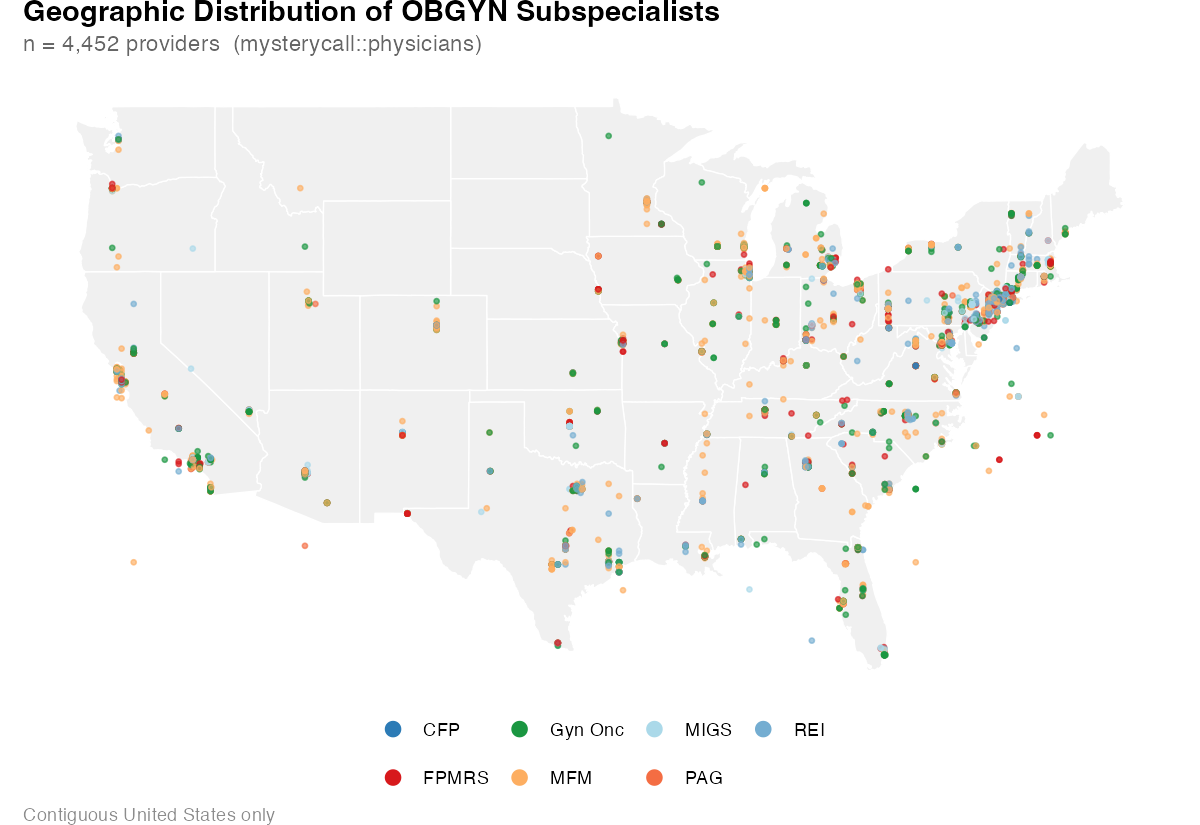
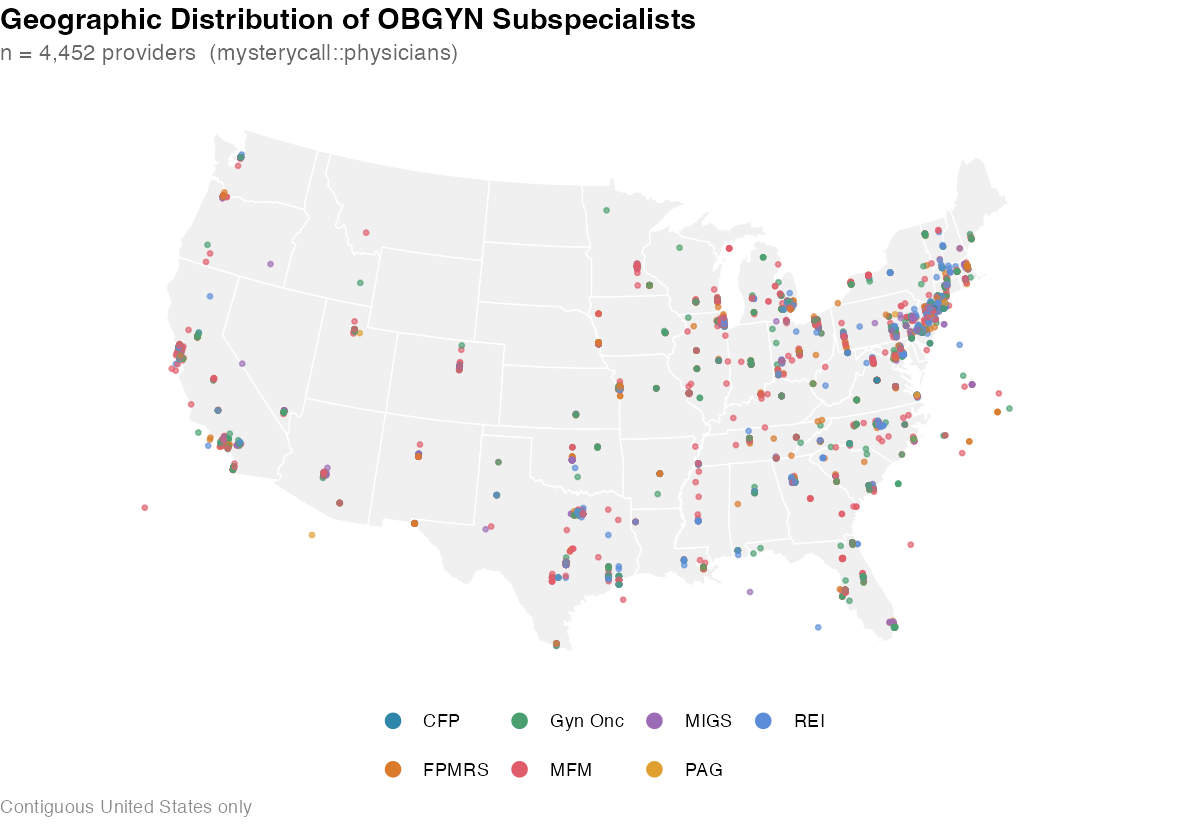
Deploying to gh-pages from @ mufflyt/mysterycall@4e5c54644243d44e0392306c7527d0b2fae7d879 🚀

diff --git a/reference/mysterycall_progress_summary.html b/reference/mysterycall_progress_summary.html
@@ -99,16 +99,16 @@
     <h2 id="ref-examples">Examples<a class="anchor" aria-label="anchor" href="#ref-examples"></a></h2>
     <div class="sourceCode"><pre class="sourceCode r"><code><span class="r-in"><span><span class="va">tr</span> <span class="op">&lt;-</span> <span class="fu"><a href="mysterycall_progress_tracker.html">mysterycall_progress_tracker</a></span><span class="op">(</span><span class="fu"><a href="https://rdrr.io/r/base/c.html" class="external-link">c</a></span><span class="op">(</span><span class="st">"Geocode"</span>, <span class="st">"Validate"</span><span class="op">)</span>, update_every <span class="op">=</span> <span class="fl">1e9</span><span class="op">)</span></span></span>
 <span class="r-in"><span><span class="fu"><a href="mysterycall_progress_start.html">mysterycall_progress_start</a></span><span class="op">(</span><span class="va">tr</span>, <span class="st">"Geocode"</span><span class="op">)</span></span></span>
-<span class="r-msg co"><span class="r-pr">#&gt;</span> [17:10:54] Started Geocode</span>
-<span class="r-msg co"><span class="r-pr">#&gt;</span> [17:10:54] Progress: 0/2 steps complete (0.0%)</span>
+<span class="r-msg co"><span class="r-pr">#&gt;</span> [17:28:58] Started Geocode</span>
+<span class="r-msg co"><span class="r-pr">#&gt;</span> [17:28:58] Progress: 0/2 steps complete (0.0%)</span>
 <span class="r-in"><span><span class="fu"><a href="mysterycall_progress_finish.html">mysterycall_progress_finish</a></span><span class="op">(</span><span class="va">tr</span>, <span class="st">"Geocode"</span>, score <span class="op">=</span> <span class="fl">0.95</span><span class="op">)</span></span></span>
-<span class="r-msg co"><span class="r-pr">#&gt;</span> [17:10:54] Completed Geocode (high)</span>
-<span class="r-msg co"><span class="r-pr">#&gt;</span> [17:10:54] Progress: 1/2 steps complete (50.0%)</span>
+<span class="r-msg co"><span class="r-pr">#&gt;</span> [17:28:58] Completed Geocode (high)</span>
+<span class="r-msg co"><span class="r-pr">#&gt;</span> [17:28:58] Progress: 1/2 steps complete (50.0%)</span>
 <span class="r-in"><span><span class="fu">mysterycall_progress_summary</span><span class="op">(</span><span class="va">tr</span><span class="op">)</span></span></span>
 <span class="r-out co"><span class="r-pr">#&gt;</span> <span style="color: #949494;"># A tibble: 2 × 6</span></span>
 <span class="r-out co"><span class="r-pr">#&gt;</span>   step     status    started_at          finished_at         quality note </span>
 <span class="r-out co"><span class="r-pr">#&gt;</span>   <span style="color: #949494; font-style: italic;">&lt;chr&gt;</span>    <span style="color: #949494; font-style: italic;">&lt;fct&gt;</span>     <span style="color: #949494; font-style: italic;">&lt;dttm&gt;</span>              <span style="color: #949494; font-style: italic;">&lt;dttm&gt;</span>              <span style="color: #949494; font-style: italic;">&lt;chr&gt;</span>   <span style="color: #949494; font-style: italic;">&lt;chr&gt;</span></span>
-<span class="r-out co"><span class="r-pr">#&gt;</span> <span style="color: #BCBCBC;">1</span> Geocode  completed 2026-05-10 <span style="color: #949494;">17:10:54</span> 2026-05-10 <span style="color: #949494;">17:10:54</span> high    <span style="color: #BB0000;">NA</span>   </span>
+<span class="r-out co"><span class="r-pr">#&gt;</span> <span style="color: #BCBCBC;">1</span> Geocode  completed 2026-05-10 <span style="color: #949494;">17:28:58</span> 2026-05-10 <span style="color: #949494;">17:28:58</span> high    <span style="color: #BB0000;">NA</span>   </span>
 <span class="r-out co"><span class="r-pr">#&gt;</span> <span style="color: #BCBCBC;">2</span> Validate pending   <span style="color: #BB0000;">NA</span>                  <span style="color: #BB0000;">NA</span>                  <span style="color: #BB0000;">NA</span>      <span style="color: #BB0000;">NA</span>   </span>
 </code></pre></div>
     </div>

diff --git a/reference/mysterycall_progress_tracker.html b/reference/mysterycall_progress_tracker.html
@@ -100,16 +100,16 @@ workflows.</p>
     <h2 id="ref-examples">Examples<a class="anchor" aria-label="anchor" href="#ref-examples"></a></h2>
     <div class="sourceCode"><pre class="sourceCode r"><code><span class="r-in"><span><span class="va">tracker</span> <span class="op">&lt;-</span> <span class="fu">mysterycall_progress_tracker</span><span class="op">(</span><span class="fu"><a href="https://rdrr.io/r/base/c.html" class="external-link">c</a></span><span class="op">(</span><span class="st">"Geocode"</span>, <span class="st">"Validate"</span><span class="op">)</span>, update_every <span class="op">=</span> <span class="fl">10</span><span class="op">)</span></span></span>
 <span class="r-in"><span><span class="fu"><a href="mysterycall_progress_start.html">mysterycall_progress_start</a></span><span class="op">(</span><span class="va">tracker</span>, <span class="st">"Geocode"</span><span class="op">)</span></span></span>
-<span class="r-msg co"><span class="r-pr">#&gt;</span> [17:10:54] Started Geocode</span>
-<span class="r-msg co"><span class="r-pr">#&gt;</span> [17:10:54] Progress: 0/2 steps complete (0.0%)</span>
+<span class="r-msg co"><span class="r-pr">#&gt;</span> [17:28:58] Started Geocode</span>
+<span class="r-msg co"><span class="r-pr">#&gt;</span> [17:28:58] Progress: 0/2 steps complete (0.0%)</span>
 <span class="r-in"><span><span class="fu"><a href="mysterycall_progress_finish.html">mysterycall_progress_finish</a></span><span class="op">(</span><span class="va">tracker</span>, <span class="st">"Geocode"</span>, score <span class="op">=</span> <span class="fl">0.92</span><span class="op">)</span></span></span>
-<span class="r-msg co"><span class="r-pr">#&gt;</span> [17:10:54] Completed Geocode (high)</span>
-<span class="r-msg co"><span class="r-pr">#&gt;</span> [17:10:54] Progress: 1/2 steps complete (50.0%)</span>
+<span class="r-msg co"><span class="r-pr">#&gt;</span> [17:28:58] Completed Geocode (high)</span>
+<span class="r-msg co"><span class="r-pr">#&gt;</span> [17:28:58] Progress: 1/2 steps complete (50.0%)</span>
 <span class="r-in"><span><span class="fu"><a href="mysterycall_progress_summary.html">mysterycall_progress_summary</a></span><span class="op">(</span><span class="va">tracker</span><span class="op">)</span></span></span>
 <span class="r-out co"><span class="r-pr">#&gt;</span> <span style="color: #949494;"># A tibble: 2 × 6</span></span>
 <span class="r-out co"><span class="r-pr">#&gt;</span>   step     status    started_at          finished_at         quality note </span>
 <span class="r-out co"><span class="r-pr">#&gt;</span>   <span style="color: #949494; font-style: italic;">&lt;chr&gt;</span>    <span style="color: #949494; font-style: italic;">&lt;fct&gt;</span>     <span style="color: #949494; font-style: italic;">&lt;dttm&gt;</span>              <span style="color: #949494; font-style: italic;">&lt;dttm&gt;</span>              <span style="color: #949494; font-style: italic;">&lt;chr&gt;</span>   <span style="color: #949494; font-style: italic;">&lt;chr&gt;</span></span>
-<span class="r-out co"><span class="r-pr">#&gt;</span> <span style="color: #BCBCBC;">1</span> Geocode  completed 2026-05-10 <span style="color: #949494;">17:10:54</span> 2026-05-10 <span style="color: #949494;">17:10:54</span> high    <span style="color: #BB0000;">NA</span>   </span>
+<span class="r-out co"><span class="r-pr">#&gt;</span> <span style="color: #BCBCBC;">1</span> Geocode  completed 2026-05-10 <span style="color: #949494;">17:28:58</span> 2026-05-10 <span style="color: #949494;">17:28:58</span> high    <span style="color: #BB0000;">NA</span>   </span>
 <span class="r-out co"><span class="r-pr">#&gt;</span> <span style="color: #BCBCBC;">2</span> Validate pending   <span style="color: #BB0000;">NA</span>                  <span style="color: #BB0000;">NA</span>                  <span style="color: #BB0000;">NA</span>      <span style="color: #BB0000;">NA</span>   </span>
 </code></pre></div>
     </div>

diff --git a/reference/mysterycall_progress_finish.html b/reference/mysterycall_progress_finish.html
@@ -123,11 +123,11 @@ provided.</p></dd>
     <h2 id="ref-examples">Examples<a class="anchor" aria-label="anchor" href="#ref-examples"></a></h2>
     <div class="sourceCode"><pre class="sourceCode r"><code><span class="r-in"><span><span class="va">tr</span> <span class="op">&lt;-</span> <span class="fu"><a href="mysterycall_progress_tracker.html">mysterycall_progress_tracker</a></span><span class="op">(</span><span class="fu"><a href="https://rdrr.io/r/base/c.html" class="external-link">c</a></span><span class="op">(</span><span class="st">"Geocode"</span><span class="op">)</span>, update_every <span class="op">=</span> <span class="fl">1e9</span><span class="op">)</span></span></span>
 <span class="r-in"><span><span class="fu"><a href="mysterycall_progress_start.html">mysterycall_progress_start</a></span><span class="op">(</span><span class="va">tr</span>, <span class="st">"Geocode"</span><span class="op">)</span></span></span>
-<span class="r-msg co"><span class="r-pr">#&gt;</span> [17:10:43] Started Geocode</span>
-<span class="r-msg co"><span class="r-pr">#&gt;</span> [17:10:43] Progress: 0/1 steps complete (0.0%)</span>
+<span class="r-msg co"><span class="r-pr">#&gt;</span> [17:28:47] Started Geocode</span>
+<span class="r-msg co"><span class="r-pr">#&gt;</span> [17:28:47] Progress: 0/1 steps complete (0.0%)</span>
 <span class="r-in"><span><span class="fu">mysterycall_progress_finish</span><span class="op">(</span><span class="va">tr</span>, <span class="st">"Geocode"</span>, score <span class="op">=</span> <span class="fl">0.92</span><span class="op">)</span></span></span>
-<span class="r-msg co"><span class="r-pr">#&gt;</span> [17:10:43] Completed Geocode (high)</span>
-<span class="r-msg co"><span class="r-pr">#&gt;</span> [17:10:43] Progress: 1/1 steps complete (100.0%)</span>
+<span class="r-msg co"><span class="r-pr">#&gt;</span> [17:28:47] Completed Geocode (high)</span>
+<span class="r-msg co"><span class="r-pr">#&gt;</span> [17:28:47] Progress: 1/1 steps complete (100.0%)</span>
 </code></pre></div>
     </div>
   </main><aside class="col-md-3"><nav id="toc" aria-label="Table of contents"><h2>On this page</h2>

diff --git a/reference/mysterycall_tracker_fail.html b/reference/mysterycall_tracker_fail.html
@@ -107,11 +107,11 @@
     <h2 id="ref-examples">Examples<a class="anchor" aria-label="anchor" href="#ref-examples"></a></h2>
     <div class="sourceCode"><pre class="sourceCode r"><code><span class="r-in"><span><span class="va">tr</span> <span class="op">&lt;-</span> <span class="fu"><a href="mysterycall_progress_tracker.html">mysterycall_progress_tracker</a></span><span class="op">(</span><span class="fu"><a href="https://rdrr.io/r/base/c.html" class="external-link">c</a></span><span class="op">(</span><span class="st">"Geocode"</span><span class="op">)</span>, update_every <span class="op">=</span> <span class="fl">1e9</span><span class="op">)</span></span></span>
 <span class="r-in"><span><span class="fu"><a href="mysterycall_progress_start.html">mysterycall_progress_start</a></span><span class="op">(</span><span class="va">tr</span>, <span class="st">"Geocode"</span><span class="op">)</span></span></span>
-<span class="r-msg co"><span class="r-pr">#&gt;</span> [17:11:04] Started Geocode</span>
-<span class="r-msg co"><span class="r-pr">#&gt;</span> [17:11:04] Progress: 0/1 steps complete (0.0%)</span>
+<span class="r-msg co"><span class="r-pr">#&gt;</span> [17:29:07] Started Geocode</span>
+<span class="r-msg co"><span class="r-pr">#&gt;</span> [17:29:07] Progress: 0/1 steps complete (0.0%)</span>
 <span class="r-in"><span><span class="fu">mysterycall_tracker_fail</span><span class="op">(</span><span class="va">tr</span>, <span class="st">"Geocode"</span>, reason <span class="op">=</span> <span class="st">"API timeout"</span><span class="op">)</span></span></span>
-<span class="r-msg co"><span class="r-pr">#&gt;</span> [17:11:04] Failed Geocode: API timeout</span>
-<span class="r-msg co"><span class="r-pr">#&gt;</span> [17:11:04] Progress: 0/1 steps complete (0.0%)</span>
+<span class="r-msg co"><span class="r-pr">#&gt;</span> [17:29:07] Failed Geocode: API timeout</span>
+<span class="r-msg co"><span class="r-pr">#&gt;</span> [17:29:07] Progress: 0/1 steps complete (0.0%)</span>
 </code></pre></div>
     </div>
   </main><aside class="col-md-3"><nav id="toc" aria-label="Table of contents"><h2>On this page</h2>

diff --git a/reference/mysterycall_progress_start.html b/reference/mysterycall_progress_start.html
@@ -107,8 +107,8 @@
     <h2 id="ref-examples">Examples<a class="anchor" aria-label="anchor" href="#ref-examples"></a></h2>
     <div class="sourceCode"><pre class="sourceCode r"><code><span class="r-in"><span><span class="va">tr</span> <span class="op">&lt;-</span> <span class="fu"><a href="mysterycall_progress_tracker.html">mysterycall_progress_tracker</a></span><span class="op">(</span><span class="fu"><a href="https://rdrr.io/r/base/c.html" class="external-link">c</a></span><span class="op">(</span><span class="st">"Geocode"</span>, <span class="st">"Validate"</span><span class="op">)</span>, update_every <span class="op">=</span> <span class="fl">1e9</span><span class="op">)</span></span></span>
 <span class="r-in"><span><span class="fu">mysterycall_progress_start</span><span class="op">(</span><span class="va">tr</span>, <span class="st">"Geocode"</span><span class="op">)</span></span></span>
-<span class="r-msg co"><span class="r-pr">#&gt;</span> [17:10:54] Started Geocode</span>
-<span class="r-msg co"><span class="r-pr">#&gt;</span> [17:10:54] Progress: 0/2 steps complete (0.0%)</span>
+<span class="r-msg co"><span class="r-pr">#&gt;</span> [17:28:58] Started Geocode</span>
+<span class="r-msg co"><span class="r-pr">#&gt;</span> [17:28:58] Progress: 0/2 steps complete (0.0%)</span>
 </code></pre></div>
     </div>
   </main><aside class="col-md-3"><nav id="toc" aria-label="Table of contents"><h2>On this page</h2>

diff --git a/reference/mysterycall_create_formula.html b/reference/mysterycall_create_formula.html
@@ -109,7 +109,7 @@ response variable, and optional random effect.</p>
 <span class="r-msg co"><span class="r-pr">#&gt;</span> Final formula object created: days ~ age + (1 | name)</span>
 <span class="r-in"><span><span class="va">formula</span></span></span>
 <span class="r-out co"><span class="r-pr">#&gt;</span> days ~ age + (1 | name)</span>
-<span class="r-out co"><span class="r-pr">#&gt;</span> &lt;environment: 0x561c61aee728&gt;</span>
+<span class="r-out co"><span class="r-pr">#&gt;</span> &lt;environment: 0x55baae888380&gt;</span>
 <span class="r-in"><span></span></span>
 </code></pre></div>
     </div>

diff --git a/reference/mysterycall_log_save.html b/reference/mysterycall_log_save.html
@@ -102,7 +102,7 @@
     <div class="section level2">
     <h2 id="ref-examples">Examples<a class="anchor" aria-label="anchor" href="#ref-examples"></a></h2>
     <div class="sourceCode"><pre class="sourceCode r"><code><span class="r-in"><span><span class="fu">mysterycall_log_save</span><span class="op">(</span><span class="fu"><a href="https://rdrr.io/r/base/tempfile.html" class="external-link">tempfile</a></span><span class="op">(</span>fileext <span class="op">=</span> <span class="st">".csv"</span><span class="op">)</span>, n_rows <span class="op">=</span> <span class="fl">42</span><span class="op">)</span></span></span>
-<span class="r-msg co"><span class="r-pr">#&gt;</span>   💾 Saved to: /tmp/RtmpzWdUlL/file23fc217ccf5b.csv (42 rows)</span>
+<span class="r-msg co"><span class="r-pr">#&gt;</span>   💾 Saved to: /tmp/Rtmp1YGHjh/file239c4dd86351.csv (42 rows)</span>
 </code></pre></div>
     </div>
   </main><aside class="col-md-3"><nav id="toc" aria-label="Table of contents"><h2>On this page</h2>

diff --git a/reference/mysterycall_log_step.html b/reference/mysterycall_log_step.html
@@ -109,7 +109,7 @@ formatted step header to the console.</p>
     <div class="sourceCode"><pre class="sourceCode r"><code><span class="r-in"><span><span class="fu"><a href="mysterycall_workflow_start.html">mysterycall_workflow_start</a></span><span class="op">(</span><span class="st">"Demo"</span>, total_steps <span class="op">=</span> <span class="fl">2</span><span class="op">)</span></span></span>
 <span class="r-msg co"><span class="r-pr">#&gt;</span> ============================================================</span>
 <span class="r-msg co"><span class="r-pr">#&gt;</span>   Demo</span>
-<span class="r-msg co"><span class="r-pr">#&gt;</span>   Started: 2026-05-10 17:10:14</span>
+<span class="r-msg co"><span class="r-pr">#&gt;</span>   Started: 2026-05-10 17:28:20</span>
 <span class="r-msg co"><span class="r-pr">#&gt;</span>   Total Steps: 2</span>
 <span class="r-msg co"><span class="r-pr">#&gt;</span> ============================================================</span>
 <span class="r-msg co"><span class="r-pr">#&gt;</span> </span>

diff --git a/reference/mysterycall_tracker_update.html b/reference/mysterycall_tracker_update.html
@@ -104,7 +104,7 @@ even if the configured interval has not elapsed.</p></dd>
     <h2 id="ref-examples">Examples<a class="anchor" aria-label="anchor" href="#ref-examples"></a></h2>
     <div class="sourceCode"><pre class="sourceCode r"><code><span class="r-in"><span><span class="va">tr</span> <span class="op">&lt;-</span> <span class="fu"><a href="mysterycall_progress_tracker.html">mysterycall_progress_tracker</a></span><span class="op">(</span><span class="fu"><a href="https://rdrr.io/r/base/c.html" class="external-link">c</a></span><span class="op">(</span><span class="st">"Geocode"</span><span class="op">)</span>, update_every <span class="op">=</span> <span class="fl">1e9</span><span class="op">)</span></span></span>
 <span class="r-in"><span><span class="fu">mysterycall_tracker_update</span><span class="op">(</span><span class="va">tr</span>, force <span class="op">=</span> <span class="cn">TRUE</span><span class="op">)</span></span></span>
-<span class="r-msg co"><span class="r-pr">#&gt;</span> [17:11:04] Progress: 0/1 steps complete (0.0%)</span>
+<span class="r-msg co"><span class="r-pr">#&gt;</span> [17:29:07] Progress: 0/1 steps complete (0.0%)</span>
 </code></pre></div>
     </div>
   </main><aside class="col-md-3"><nav id="toc" aria-label="Table of contents"><h2>On this page</h2>

diff --git a/reference/mysterycall_workflow_start.html b/reference/mysterycall_workflow_start.html
@@ -109,7 +109,7 @@ workflow header to the console.</p>
     <div class="sourceCode"><pre class="sourceCode r"><code><span class="r-in"><span><span class="fu">mysterycall_workflow_start</span><span class="op">(</span><span class="st">"Demo Workflow"</span>, total_steps <span class="op">=</span> <span class="fl">3</span><span class="op">)</span></span></span>
 <span class="r-msg co"><span class="r-pr">#&gt;</span> ============================================================</span>
 <span class="r-msg co"><span class="r-pr">#&gt;</span>   Demo Workflow</span>
-<span class="r-msg co"><span class="r-pr">#&gt;</span>   Started: 2026-05-10 17:11:06</span>
+<span class="r-msg co"><span class="r-pr">#&gt;</span>   Started: 2026-05-10 17:29:09</span>
 <span class="r-msg co"><span class="r-pr">#&gt;</span>   Total Steps: 3</span>
 <span class="r-msg co"><span class="r-pr">#&gt;</span> ============================================================</span>
 <span class="r-msg co"><span class="r-pr">#&gt;</span> </span>

diff --git a/reference/mysterycall_progress_summary.md b/reference/mysterycall_progress_summary.md
@@ -43,15 +43,15 @@ Other logging utilities:
 ``` r
 tr <- mysterycall_progress_tracker(c("Geocode", "Validate"), update_every = 1e9)
 mysterycall_progress_start(tr, "Geocode")
-#> [17:10:54] Started Geocode
-#> [17:10:54] Progress: 0/2 steps complete (0.0%)
+#> [17:28:58] Started Geocode
+#> [17:28:58] Progress: 0/2 steps complete (0.0%)
 mysterycall_progress_finish(tr, "Geocode", score = 0.95)
-#> [17:10:54] Completed Geocode (high)
-#> [17:10:54] Progress: 1/2 steps complete (50.0%)
+#> [17:28:58] Completed Geocode (high)
+#> [17:28:58] Progress: 1/2 steps complete (50.0%)
 mysterycall_progress_summary(tr)
 #> # A tibble: 2 × 6
 #>   step     status    started_at          finished_at         quality note 
 #>   <chr>    <fct>     <dttm>              <dttm>              <chr>   <chr>
-#> 1 Geocode  completed 2026-05-10 17:10:54 2026-05-10 17:10:54 high    NA   
+#> 1 Geocode  completed 2026-05-10 17:28:58 2026-05-10 17:28:58 high    NA   
 #> 2 Validate pending   NA                  NA                  NA      NA   
 ```

diff --git a/reference/mysterycall_progress_tracker.md b/reference/mysterycall_progress_tracker.md
@@ -40,15 +40,15 @@ and
 ``` r
 tracker <- mysterycall_progress_tracker(c("Geocode", "Validate"), update_every = 10)
 mysterycall_progress_start(tracker, "Geocode")
-#> [17:10:54] Started Geocode
-#> [17:10:54] Progress: 0/2 steps complete (0.0%)
+#> [17:28:58] Started Geocode
+#> [17:28:58] Progress: 0/2 steps complete (0.0%)
 mysterycall_progress_finish(tracker, "Geocode", score = 0.92)
-#> [17:10:54] Completed Geocode (high)
-#> [17:10:54] Progress: 1/2 steps complete (50.0%)
+#> [17:28:58] Completed Geocode (high)
+#> [17:28:58] Progress: 1/2 steps complete (50.0%)
 mysterycall_progress_summary(tracker)
 #> # A tibble: 2 × 6
 #>   step     status    started_at          finished_at         quality note 
 #>   <chr>    <fct>     <dttm>              <dttm>              <chr>   <chr>
-#> 1 Geocode  completed 2026-05-10 17:10:54 2026-05-10 17:10:54 high    NA   
+#> 1 Geocode  completed 2026-05-10 17:28:58 2026-05-10 17:28:58 high    NA   
 #> 2 Validate pending   NA                  NA                  NA      NA   
 ```